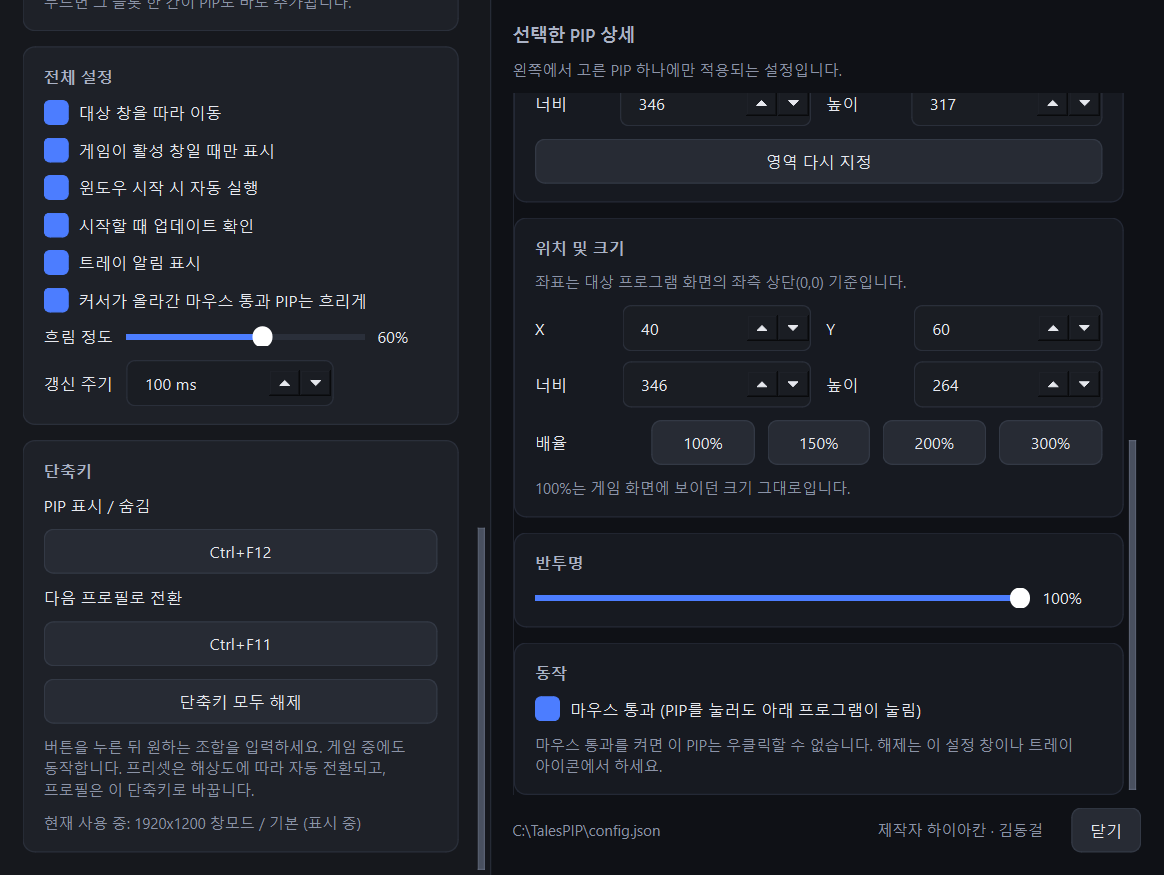
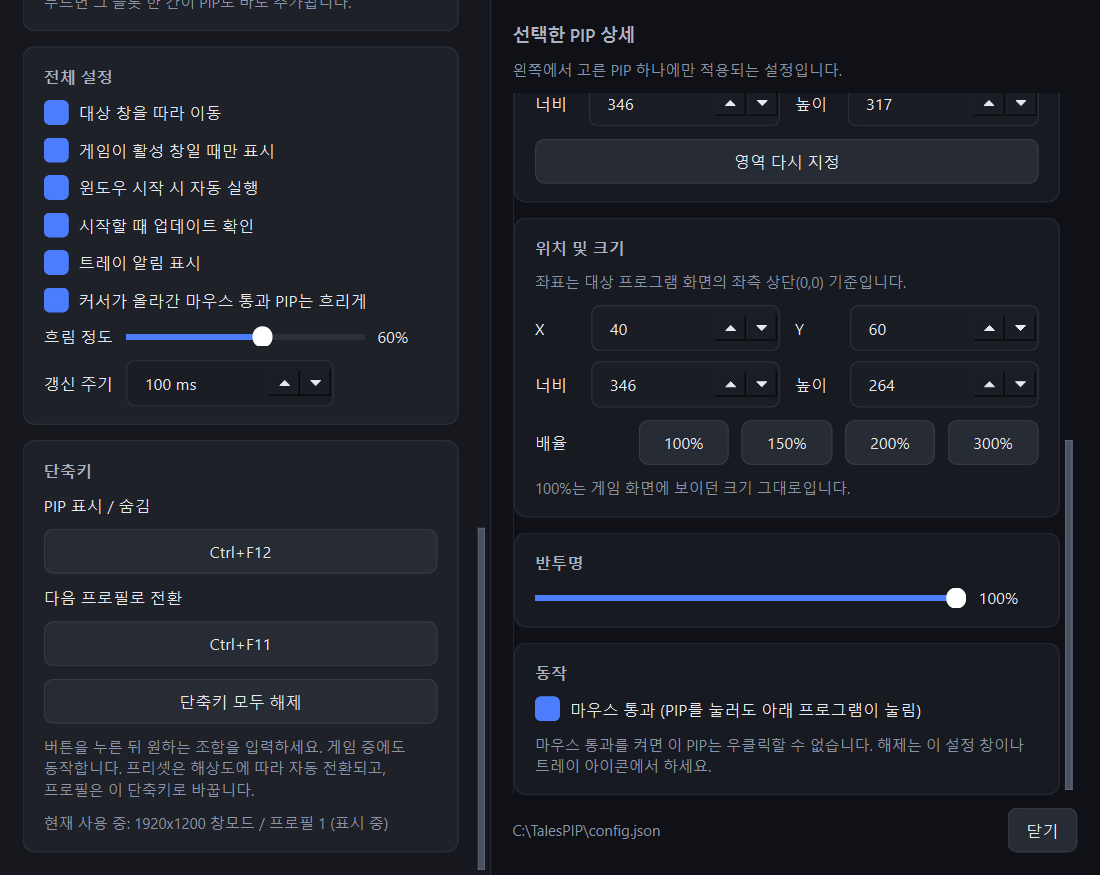
Name the first profile like the rest, and drop the byline
Calling it 기본 made the starting profile read as a special case; it is
just the first one. The settings footer no longer carries an author
name.

diff --git a/tales_pip.py b/tales_pip.py
@@ -98,7 +98,6 @@ TARGET_PROCESS = "InphaseNXD.exe"
 TARGET_LABEL = "테일즈위버"  # shown in the UI instead of the process name
 
 APP_VERSION = "1.0.2"
-APP_AUTHOR = "하이아칸 · 김동걸"
 REPO_URL = "https://github.com/kimdonggeol/TalesPIP"
 LATEST_RELEASE_API = "https://api.github.com/repos/kimdonggeol/TalesPIP/releases/latest"
 RELEASES_URL = REPO_URL + "/releases/latest"
@@ -132,7 +131,7 @@ DEFAULT_TOGGLE_HOTKEY = {"mods": MOD_CONTROL, "vk": 0x7B, "text": "Ctrl+F12"}
 DEFAULT_PROFILE_HOTKEY = {"mods": MOD_CONTROL, "vk": 0x7A, "text": "Ctrl+F11"}
 # A profile is a set of PIPs inside one preset — typically one per character,
 # since two characters at the same resolution want different regions shown.
-DEFAULT_PROFILE = {"id": "default", "name": "기본"}
+DEFAULT_PROFILE = {"id": "default", "name": "프로필 1"}
 DEFAULT_CONFIG = {
     "always_on_top": True,
     "refresh_ms": 100,
@@ -1639,13 +1638,9 @@ class SettingsDialog(QDialog):
         bottom = QHBoxLayout()
         self.lbl_path = QLabel(CONFIG_PATH)
         self.lbl_path.setObjectName("Caption")
-        self.lbl_author = QLabel(f"제작자 {APP_AUTHOR}")
-        self.lbl_author.setObjectName("Caption")
         btn_close = QPushButton("닫기")
         btn_close.clicked.connect(self.accept)
         bottom.addWidget(self.lbl_path, 1)
-        bottom.addWidget(self.lbl_author)
-        bottom.addSpacing(12)
         bottom.addWidget(btn_close)
         right_layout.addLayout(bottom)
 
